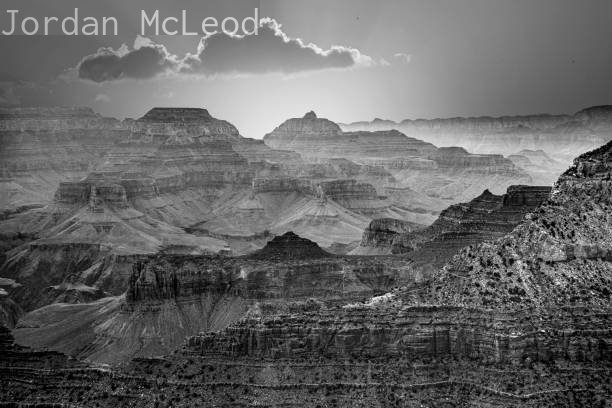
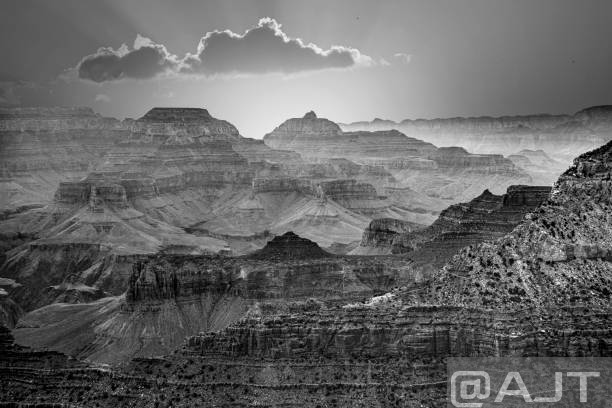
Added alignment functionality and font size

Changed region(s): [[0.7141, 0.8529, 1.0, 1.0], [0.0, 0.0, 0.4346, 0.0882]]

diff --git a/watermarking/watermark.py b/watermarking/watermark.py
@@ -7,6 +7,8 @@ from PIL import ImageFont
 # ------------------------------------------ fonts -------------------------------------------#
 
 # This dictionary is used to create the dropdown list of fonts that correlate to the fonts in the fonts folder
+# TODO 2 - Choose better fonts for the user to use.
+
 fonts = {
     "Goldman": "Goldman-Regular.ttf",
     "Inconsolata": "Inconsolata-Regular.ttf",
@@ -15,8 +17,18 @@ fonts = {
 
 # ------------------------------------------ Watermark position -------------------------------------------#
 
-# This dictionary is used to create the dropdown list of positions
+# This list is used to create the dropdown list of positions
 positions = ["Top", "Bottom"]
+
+# --------------------------------------------- Alignment  ---------------------------------------------------#
+
+# This list is used to create the dropdown list of alignments
+alignments = ["Left", "Center", "Right"]
+
+# --------------------------------------------- Font size  ---------------------------------------------------#
+
+# This list is used to create the dropdown list of Font Sizes
+font_size = ["Small", "Medium", "Large"]
 
 # ------------------------------------------ watermarking function -------------------------------------------#
 
@@ -29,20 +41,43 @@ def watermarking():
     # gathers the image's height and width
     w, h = photo.size
 
+    # determines the size of the text due
+    if font_size_clicked.get() == "Small":
+        font_size = 15
+    elif font_size_clicked.get() == "Medium":
+        font_size = 30
+    elif font_size_clicked.get() == "Large":
+        font_size = 50
+
     # 'draws' the photo onto a black canvas
     drawing = ImageDraw.Draw(photo)
-    watermark_font = ImageFont.truetype(f'fonts/{fonts[font_clicked.get()]}', 40)
+    watermark_font = ImageFont.truetype(f'fonts/{fonts[font_clicked.get()]}', font_size)
 
     # creates the text box for the watermark text
     text = text_box.get()
     text_w, text_h = drawing.textsize(text, watermark_font)
 
+    # defines the center/right x value for the text ot be used in the if statement below
+    center_text = int(w/2)-int(text_w/2)
+    right_text = w-text_w
+
     # if statement to check if the user wants the watermark at the top or bottom of the image and assigns the correct
+    # there is then an embedded if statement to identify the alignment of the text on the
     # x and y coordinates
     if pos_clicked.get() == "Top":
-        pos = (0, 0)
+        if align_clicked.get() == "Left":
+            pos = (0, 0)
+        elif align_clicked.get() == "Center":
+            pos = (center_text, 0)
+        elif align_clicked.get() == "Right":
+            pos = (right_text, 0)
     elif pos_clicked.get() == "Bottom":
-        pos = (0, h-50)
+        if align_clicked.get() == "Left":
+            pos = (0, h-text_h)
+        elif align_clicked.get() == "Center":
+            pos = (center_text, h-text_h)
+        elif align_clicked.get() == "Right":
+            pos = (right_text, h-text_h)
 
     # creates the black background colour for the text
     c_text = Image.new('RGB', (text_w, text_h), color='#000000')
@@ -53,6 +88,8 @@ def watermarking():
     c_text.putalpha(100)
 
     photo.paste(c_text, pos, c_text)
+
+    # TODO 1 - Allow the user to preview the image and then save once they are happy.
 
     # saves the image to the location below
     photo.save('watermarked_images/watermarked_image.png')
@@ -84,11 +121,12 @@ def upload_action():
 
 # ------------------------------------------ watermarking function -------------------------------------------#
 
-
+# window creates the TKinter window and names it "Watermark" and sets the padding on the x and y axis
 window = Tk()
 window.title("Watermarker")
 window.config(padx=100, pady=50)
 
+# Upload file label and button to allow the user to chose the image they would like to watermark
 upload_file_label = Label(text="Please select a photo to upload")
 upload_file_label.grid(column=0, row=1)
 upload_file = Button(window, text='Open', command=upload_action)
@@ -96,12 +134,16 @@ upload_file.grid(column=1, row=1)
 upload_file_link = Label(text="")
 upload_file_link.grid(column=0, row=2, columnspan=2)
 
+# Text label and text box allows the user to enter the text that they want to add as the watermark
 text_label = Label(text="Watermark Text")
 text_label.grid(column=0, row=3)
 text_box = Entry()
 text_box.grid(column=1, row=3)
 text_box.focus()
 
+
+
+# Allows the user to choose a font from a dropdown lost
 font_clicked = StringVar()
 font_clicked.set("Goldman")
 
@@ -110,6 +152,7 @@ font_selection_label.grid(column=0, row=4)
 font_selection_dropdown = OptionMenu(window, font_clicked, *fonts.keys())
 font_selection_dropdown.grid(column=1, row=4)
 
+# Allows the user to choose the position of the watermark from a dropdown lost
 pos_clicked = StringVar()
 pos_clicked.set("Top")
 
@@ -118,10 +161,29 @@ pos_selection_label.grid(column=0, row=5)
 pos_selection_dropdown = OptionMenu(window, pos_clicked, *positions)
 pos_selection_dropdown.grid(column=1, row=5)
 
+# Allows the user to choose the alignment of the watermark from a dropdown lost
+align_clicked = StringVar()
+align_clicked.set("Left")
+
+align_selection_label = Label(text="Alignment")
+align_selection_label.grid(column=0, row=6)
+align_selection_dropdown = OptionMenu(window, align_clicked, *alignments)
+align_selection_dropdown.grid(column=1, row=6)
+
+# Allows the user to choose the font size of the watermark from a dropdown lost
+font_size_clicked = StringVar()
+font_size_clicked.set("Small")
+
+font_size_selection_label = Label(text="Font size")
+font_size_selection_label.grid(column=0, row=7)
+font_size_selection_dropdown = OptionMenu(window, font_size_clicked, *font_size)
+font_size_selection_dropdown.grid(column=1, row=7)
+
+# Submit button that calls the "Watermarking()" function
 submit = Button(text="Watermark!", command=watermarking)
-submit.grid(column=0, row=6, columnspan=2)
+submit.grid(column=0, row=8, columnspan=2)
 
 success_message = Label(text="")
-success_message.grid(column=0, row=7, columnspan=2)
+success_message.grid(column=0, row=9, columnspan=2)
 
 window.mainloop()
